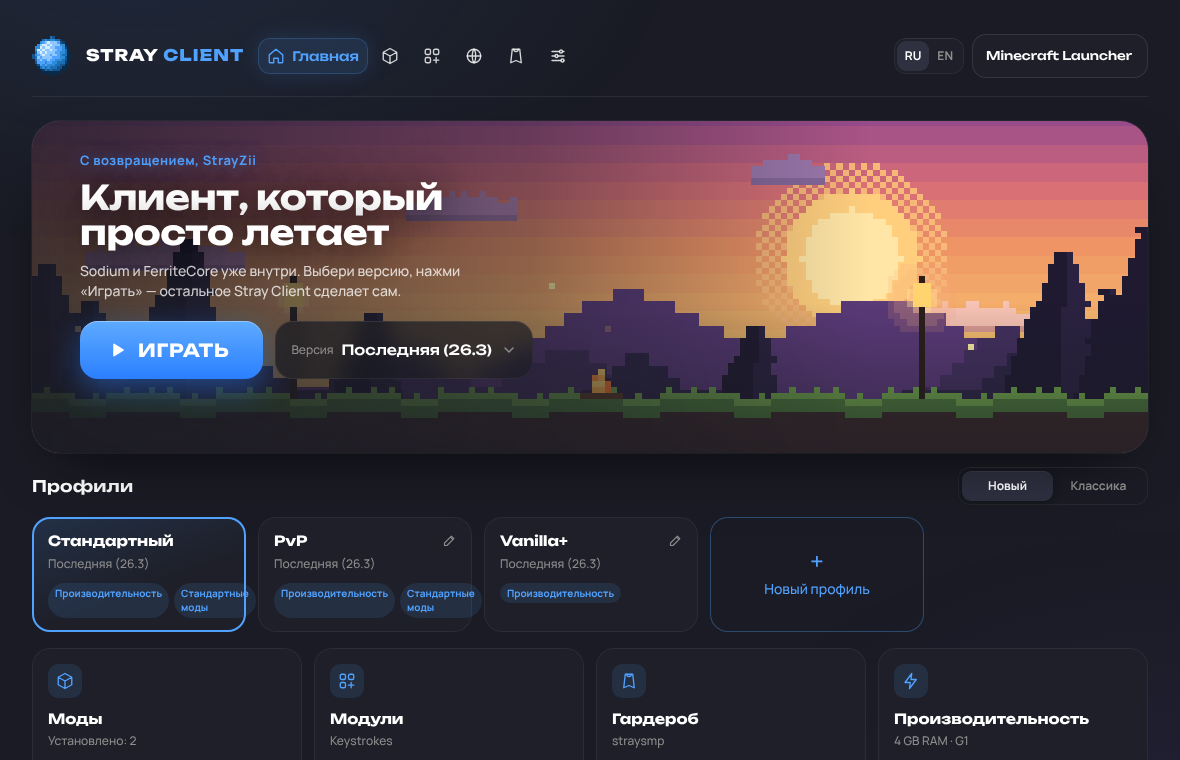
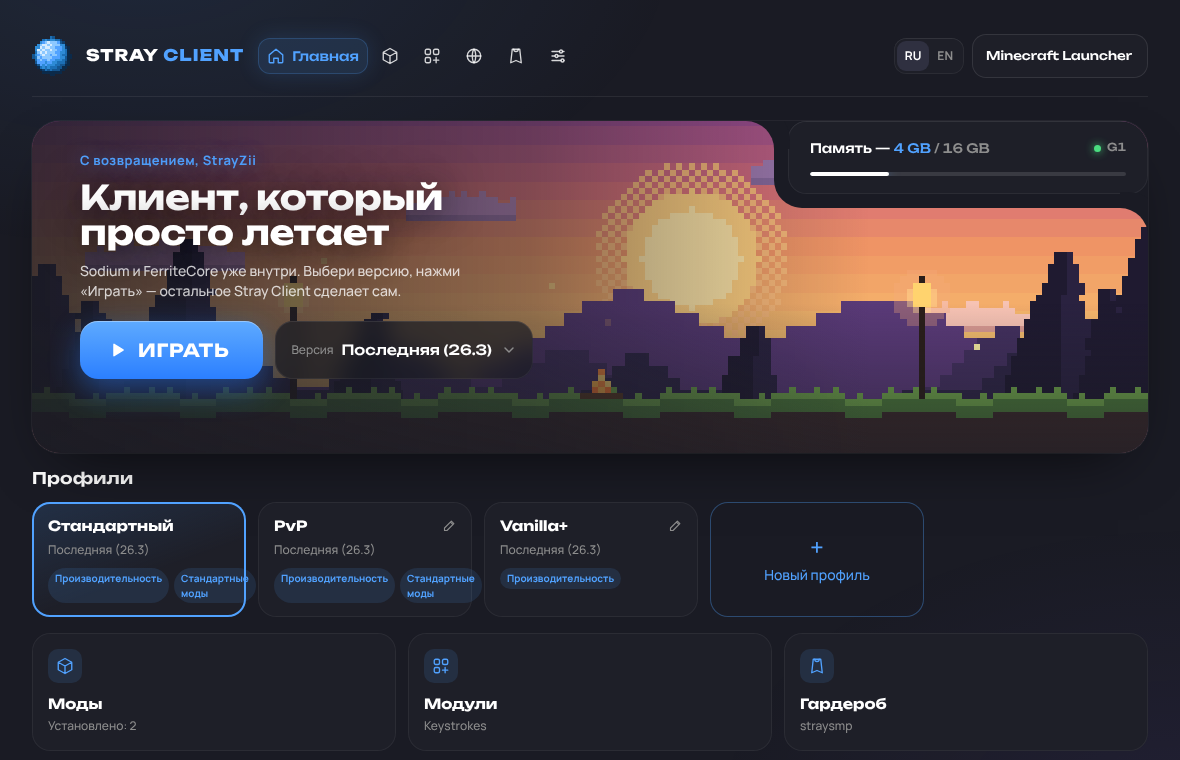
Start-up sounds; one home screen with the RAM card
- Start-up animation gets sound, synthesised with the Web Audio API (no
  audio files): a bit-crushed e-piano runs up the C major scale while
  the letters appear, a coin "ding" with an echo when the logo is
  complete, and a whoosh when the app opens. "Start-up sound" in the
  settings turns it off; a click that skips the animation cuts it.
  If the system won't start audio without a click, it stays silent
  instead of playing late.
- The New/Classic home switch is gone. The one home screen keeps the
  memory (RAM) card in the corner and the Performance and StrayZii
  cards from the classic layout below the tiles; the sun moved so the
  RAM card doesn't cover it.
- Website gallery re-shot.

Version 1.8.1.

Claude-Session: https://claude.ai/code/session_01EKR2RorTuDivRz6EMqGW66

diff --git a/ui/sfx.js b/ui/sfx.js
@@ -1,0 +1,133 @@
+// Start-up sounds, synthesised with the Web Audio API (no audio files):
+//  • a bit-crushed e-piano running up a major scale while the letters appear,
+//  • a coin "ding" with an echo when the logo is complete,
+//  • a whoosh when the app opens.
+// `StraySfx.build(ctx)` works on any (also an offline) audio context so it can be tested.
+window.StraySfx = (() => {
+  function build(ctx) {
+    const master = ctx.createGain();
+    master.gain.value = 0.42;
+    master.connect(ctx.destination);
+
+    // bit crusher: quantise the signal to a few steps (the "8-bit" grit)
+    const crush = ctx.createWaveShaper();
+    const curve = new Float32Array(2048), steps = 7;
+    for (let i = 0; i < curve.length; i++) curve[i] = Math.round(((i / (curve.length - 1)) * 2 - 1) * steps) / steps;
+    crush.curve = curve;
+    const tone = ctx.createBiquadFilter();
+    tone.type = "lowpass";
+    tone.frequency.value = 5200;
+    crush.connect(tone).connect(master);
+
+    // e-piano: a sine carrier with a decaying FM "tine" and a short bell partial
+    function piano(freq, t, len = 0.55, vol = 0.5) {
+      const car = ctx.createOscillator(), mod = ctx.createOscillator(), idx = ctx.createGain(), amp = ctx.createGain();
+      const bell = ctx.createOscillator(), bellAmp = ctx.createGain();
+      car.frequency.value = freq;
+      mod.frequency.value = freq * 2;
+      idx.gain.setValueAtTime(freq * 2.2, t);
+      idx.gain.exponentialRampToValueAtTime(freq * 0.15, t + 0.3);
+      mod.connect(idx).connect(car.frequency);
+      amp.gain.setValueAtTime(0.0001, t);
+      amp.gain.exponentialRampToValueAtTime(vol, t + 0.006);
+      amp.gain.exponentialRampToValueAtTime(0.0008, t + len);
+      bell.frequency.value = freq * 4;
+      bellAmp.gain.setValueAtTime(vol * 0.25, t);
+      bellAmp.gain.exponentialRampToValueAtTime(0.0005, t + 0.09);
+      car.connect(amp).connect(crush);
+      bell.connect(bellAmp).connect(crush);
+      for (const o of [car, mod, bell]) {
+        o.start(t);
+        o.stop(t + len + 0.05);
+      }
+    }
+    /** Eight notes up the C major scale, the last one ringing out. */
+    function scale(t, step = 0.088) {
+      const root = 523.25; // C5
+      [1, 9 / 8, 5 / 4, 4 / 3, 3 / 2, 5 / 3, 15 / 8, 2].forEach((r, i) => piano(root * r, t + i * step, i === 7 ? 0.9 : 0.42, i === 7 ? 0.55 : 0.42));
+    }
+
+    /** Classic two-tone coin with a feedback echo. */
+    function coin(t) {
+      const o = ctx.createOscillator(), g = ctx.createGain();
+      o.type = "square";
+      o.frequency.setValueAtTime(987.77, t); // B5
+      o.frequency.setValueAtTime(1318.51, t + 0.075); // E6
+      g.gain.setValueAtTime(0.0001, t);
+      g.gain.exponentialRampToValueAtTime(0.3, t + 0.004);
+      g.gain.setValueAtTime(0.3, t + 0.075);
+      g.gain.exponentialRampToValueAtTime(0.0006, t + 0.5);
+      const delay = ctx.createDelay(1), fb = ctx.createGain(), damp = ctx.createBiquadFilter();
+      delay.delayTime.value = 0.17;
+      fb.gain.value = 0.42;
+      damp.type = "lowpass";
+      damp.frequency.value = 3200;
+      o.connect(g);
+      g.connect(master);
+      g.connect(delay);
+      delay.connect(damp).connect(fb).connect(delay);
+      damp.connect(master);
+      o.start(t);
+      o.stop(t + 0.55);
+    }
+
+    /** Filtered noise sweeping up and away. */
+    function whoosh(t) {
+      const len = Math.floor(ctx.sampleRate * 0.9), buf = ctx.createBuffer(1, len, ctx.sampleRate), d = buf.getChannelData(0);
+      let seed = 1234567;
+      for (let i = 0; i < len; i++) d[i] = ((seed = (seed * 1664525 + 1013904223) >>> 0) / 2147483648) - 1;
+      const src = ctx.createBufferSource(), bp = ctx.createBiquadFilter(), g = ctx.createGain();
+      src.buffer = buf;
+      bp.type = "bandpass";
+      bp.Q.value = 0.8;
+      bp.frequency.setValueAtTime(220, t);
+      bp.frequency.exponentialRampToValueAtTime(2800, t + 0.3);
+      bp.frequency.exponentialRampToValueAtTime(500, t + 0.75);
+      g.gain.setValueAtTime(0.0001, t);
+      g.gain.exponentialRampToValueAtTime(2.0, t + 0.26);
+      g.gain.exponentialRampToValueAtTime(0.0006, t + 0.78);
+      src.connect(bp).connect(g).connect(master);
+      src.start(t);
+      src.stop(t + 0.85);
+    }
+    return { scale, coin, whoosh, master };
+  }
+
+  /** Live player: null when sound is off or the system won't start audio without a click. */
+  function start() {
+    let on = true;
+    try { on = localStorage.getItem("stray-intro-sound") !== "0"; } catch (e) {}
+    const AC = window.AudioContext || window.webkitAudioContext;
+    if (!on || !AC) return null;
+    let ctx;
+    try { ctx = new AC(); } catch (e) { return null; }
+    const s = build(ctx);
+    const t0 = performance.now();
+    let dead = false;
+    const kill = () => {
+      dead = true;
+      ctx.close().catch(() => {});
+    };
+    const ready = ctx.state === "running" ? Promise.resolve() : ctx.resume();
+    // If audio can't start right away, stay silent rather than play everything late.
+    const timer = setTimeout(() => ctx.state !== "running" && kill(), 500);
+    /** Play `what` so that it sounds `at` seconds after the animation began. */
+    const cue = (what, at) =>
+      ready.then(() => {
+        if (dead || ctx.state !== "running") return;
+        const late = (performance.now() - t0) / 1000 - at;
+        if (late < 0.25) s[what](ctx.currentTime + Math.max(0.02, -late));
+      }).catch(() => {});
+    return {
+      cue,
+      now: (what) => !dead && ctx.state === "running" && s[what](ctx.currentTime + 0.02),
+      /** Fade out what is still ringing and free the audio device. */
+      end: (after = 1.2) => {
+        clearTimeout(timer);
+        setTimeout(kill, after * 1000);
+      },
+      silence: () => !dead && s.master.gain.setTargetAtTime(0, ctx.currentTime, 0.03),
+    };
+  }
+  return { build, start };
+})();

diff --git a/ui/app.js b/ui/app.js
@@ -129,8 +129,6 @@
     $("#tile-modules").textContent = mods.join(" · ") || t("tile.modulesNone");
     $("#tile-wardrobe").textContent =
       S.settings.capeMode === "local" && S.settings.cape ? S.settings.cape.replace(/\.png$/, "") : S.settings.capeMode === "none" ? t("tile.capeNone") : t("tile.capeAccount");
-    $("#tile-perf").textContent = `${gb(S.settings.memoryMb)} RAM · ${S.settings.gc === "lowlatency" ? "ZGC" : "G1"}`;
-    $("#tile-mem-bar").style.width = $("#mem-bar").style.width;
     $(".core-mods").classList.toggle("off", !!activeProfile() && !activeProfile().performanceMods);
   }
 
@@ -146,9 +144,7 @@
   const profVersion = (p) => (p ? p.gameVersion : S.settings.gameVersion) || (S.versions[0] ? `${t("version.latest")} (${S.versions[0]})` : t("version.latest"));
   function renderHome() {
     if (!S.settings) return;
-    const layout = S.settings.homeLayout === "classic" ? "classic" : "new";
-    document.body.classList.toggle("home-new", layout === "new");
-    $$("#home-switch button, #set-home button").forEach((b) => b.classList.toggle("on", b.dataset.v === layout));
+    document.body.classList.add("home-new");
     const acc = S.accounts?.accounts?.find((a) => a.uuid === S.accounts.active) || S.init?.account;
     $("#hero-hello").textContent = acc?.name ? t("home.hello", acc.name) : t("home.helloGuest");
     const act = activeProfile();
@@ -182,13 +178,6 @@
     await saveSettings();
     await reloadInstalled();
   }
-  function setLayout(v) {
-    S.settings.homeLayout = v;
-    renderHome();
-    saveSoon();
-  }
-  $("#home-switch").addEventListener("click", (e) => e.target.closest("button") && setLayout(e.target.closest("button").dataset.v));
-  $("#set-home").addEventListener("click", (e) => e.target.closest("button") && setLayout(e.target.closest("button").dataset.v));
   document.body.appendChild($("#prof-menu"));
   $("#prof-pill").addEventListener("click", (e) => {
     e.stopPropagation();
@@ -784,14 +773,17 @@
       renderStatus();
       saveSoon();
     });
-    const checks = { "#set-autojoin": "autoJoin", "#set-close": "closeOnLaunch", "#set-motion": "reduceMotion", "#set-intro": "skipIntro" };
+    const checks = { "#set-autojoin": "autoJoin", "#set-close": "closeOnLaunch", "#set-motion": "reduceMotion", "#set-intro": "skipIntro", "#set-sound": "introSound" };
     for (const [sel, key] of Object.entries(checks)) {
       const el = $(sel);
       el.checked = !!s[key];
       el.addEventListener("change", () => {
         s[key] = el.checked;
         document.body.classList.toggle("no-motion", s.reduceMotion);
-        try { localStorage.setItem("stray-skip-intro", s.skipIntro ? "1" : "0"); } catch {}
+        try {
+          localStorage.setItem("stray-skip-intro", s.skipIntro ? "1" : "0");
+          localStorage.setItem("stray-intro-sound", s.introSound === false ? "0" : "1");
+        } catch {}
         saveSoon();
       });
     }
@@ -1516,6 +1508,10 @@
       return { done, ready() {} };
     }
     const back = "cubic-bezier(.2,1.5,.4,1)", out = "cubic-bezier(.2,.8,.2,1)", inOut = "cubic-bezier(.7,0,.3,1)";
+    // sounds: e-piano scale with the letters, coin when the logo is complete, whoosh on open
+    const sfx = window.StraySfx?.start() || null;
+    sfx?.cue("scale", 1.35);
+    sfx?.cue("coin", 2.2);
     const anims = [];
     const play = (node, frames, opts) => {
       const a = node.animate(frames, { fill: "both", easing: out, ...opts });
@@ -1580,6 +1576,8 @@
     function close() {
       if (closing) return;
       closing = true;
+      sfx?.now("whoosh");
+      sfx?.end(1.6);
       document.documentElement.classList.remove("intro-on");
       for (const n of [$(".top"), $("main")]) {
         n.animate([{ opacity: 0, transform: "translateY(16px) scale(.98)" }, { opacity: 1, transform: "none" }], { duration: 650, delay: 120, easing: out, fill: "backwards" });
@@ -1598,6 +1596,7 @@
     setTimeout(() => ((played = true), (appReady = true), maybeClose()), 9000); // never get stuck behind the intro
     el.addEventListener("click", () => {
       anims.forEach((a) => a.finish());
+      if (!closing) sfx?.silence(); // skipped: cut the music, no whoosh over it
       played = appReady = true;
       close();
     });
@@ -1613,10 +1612,13 @@
     S.settings.cape ||= "";
     S.settings.profiles ||= [];
     S.settings.profile ||= "";
-    S.settings.homeLayout ||= "new";
+    S.settings.introSound ??= true;
     S.accounts = S.init.accounts || { active: null, accounts: S.init.account ? [S.init.account] : [] };
     document.body.classList.toggle("no-motion", S.settings.reduceMotion);
-    try { localStorage.setItem("stray-skip-intro", S.settings.skipIntro ? "1" : "0"); } catch {}
+    try {
+      localStorage.setItem("stray-skip-intro", S.settings.skipIntro ? "1" : "0");
+      localStorage.setItem("stray-intro-sound", S.settings.introSound === false ? "0" : "1");
+    } catch {}
     bindSettings();
     applyI18n();
     S.versions = await api.call("game_versions").catch(() => []);

diff --git a/ui/index.html b/ui/index.html
@@ -124,11 +124,6 @@
 
       <div class="home-bar">
         <h3 class="home-new-only" data-i18n="home.profiles"></h3>
-        <span class="home-bar-gap"></span>
-        <div class="seg home-switch" id="home-switch">
-          <button data-v="new" data-i18n="home.layout.new"></button>
-          <button data-v="classic" data-i18n="home.layout.classic"></button>
-        </div>
       </div>
       <div class="prof-strip home-new-only" id="prof-strip"></div>
       <div class="tiles home-new-only">
@@ -144,14 +139,9 @@
           <span class="tile-ico"><svg viewBox="0 0 24 24"><path d="M7 3h10l2 18-7-3-7 3z"/><path d="M9 3c0 2 1.3 3 3 3s3-1 3-3"/></svg></span>
           <b data-i18n="nav.wardrobe"></b><small id="tile-wardrobe"></small>
         </button>
-        <button class="tile" data-page="settings">
-          <span class="tile-ico"><svg viewBox="0 0 24 24"><path d="M13 2 4 14h7l-1 8 9-12h-7z"/></svg></span>
-          <b data-i18n="tile.perf"></b><small id="tile-perf"></small>
-          <span class="bar tile-bar"><i id="tile-mem-bar"></i></span>
-        </button>
       </div>
 
-      <div class="cards home-classic-only">
+      <div class="cards">
         <div class="card perf">
           <div class="card-head">
             <div>
@@ -402,13 +392,7 @@
           <label class="toggle"><input type="checkbox" id="set-close" /><i></i><span data-i18n="set.close"></span></label>
           <label class="toggle"><input type="checkbox" id="set-motion" /><i></i><span data-i18n="set.motion"></span></label>
           <label class="toggle"><input type="checkbox" id="set-intro" /><i></i><span data-i18n="set.intro"></span></label>
-          <div class="field">
-            <label data-i18n="set.home"></label>
-            <div class="seg" id="set-home">
-              <button data-v="new" data-i18n="home.layout.new"></button>
-              <button data-v="classic" data-i18n="home.layout.classic"></button>
-            </div>
-          </div>
+          <label class="toggle"><input type="checkbox" id="set-sound" /><i></i><span data-i18n="set.introSound"></span></label>
         </div>
 
         <div class="card set-card">
@@ -563,6 +547,7 @@
 
   <script src="i18n.js"></script>
   <script src="api.js"></script>
+  <script src="sfx.js"></script>
   <script src="hero.js"></script>
   <script src="app.js"></script>
 </body>

diff --git a/ui/i18n.js b/ui/i18n.js
@@ -169,6 +169,7 @@ window.I18N = {
     "ce.bad": "Не удалось открыть эту картинку",
     "set.home": "Главный экран",
     "set.intro": "Без анимации при запуске",
+    "set.introSound": "Звук при запуске",
     "mod.hud": "Чтобы передвинуть модули на экране: в игре Right Shift → «Двигать HUD», затем перетащи Keystrokes и PvP-HUD мышью куда угодно.",
     "hero.title": "Клиент, который просто летает",
     "hero.sub": "Sodium и FerriteCore уже внутри. Выбери версию, нажми «Играть» — остальное Stray Client сделает сам.",
@@ -432,6 +433,7 @@ window.I18N = {
     "ce.bad": "Could not open this picture",
     "set.home": "Home screen",
     "set.intro": "Skip the start-up animation",
+    "set.introSound": "Start-up sound",
     "mod.hud": "To move modules on your screen: in game press Right Shift → “Move HUD”, then drag Keystrokes and the PvP HUD anywhere with the mouse.",
     "hero.title": "The client that just flies",
     "hero.sub": "Sodium and FerriteCore built in. Pick a version, hit Play — Stray Client takes care of the rest.",

diff --git a/ui/styles.css b/ui/styles.css
@@ -748,3 +748,9 @@ main { scroll-behavior: smooth; }
 .modal-card { box-shadow: 0 0 0 1px var(--ring-2), 0 30px 80px rgba(0,0,0,.55), 0 0 60px rgba(81,162,255,.08); }
 /* "fewer animations": no hover lifts, no cursor light */
 body.no-motion .tile::after, body.no-motion .prof-cardx::after, body.no-motion .world::after, body.no-motion .mod::after, body.no-motion .card::after, body.no-motion .cape-card::after, body.no-motion .ex-row::after { display: none; }
+
+/* ───────── one home screen (the New/Classic switch is gone) ───────── */
+body.home-new .notch-online { display: block; }
+body.home-new .tiles { grid-template-columns: repeat(3, 1fr); }
+body.home-new .cards { margin-top: 12px; }
+.home-bar { margin-top: 14px; }

diff --git a/ui/api.js b/ui/api.js
@@ -29,7 +29,7 @@
     // Like the real client until Mojang approves direct sign-in: play through the official launcher.
     playMode: "official",
     keystrokes: { enabled: true, keys: true, mouse: true, space: true, fps: true, ping: false },
-    homeLayout: params.get("home") === "classic" ? "classic" : "new", skipIntro: false, profile: "",
+    skipIntro: false, introSound: true, profile: "",
     profiles: params.has("profiles") ? [{ id: "pvp", name: "PvP", gameVersion: "", performanceMods: true, standardMods: true }, { id: "vanilla", name: "Vanilla+", gameVersion: "", performanceMods: true, standardMods: false }] : [],
   };
   // Demo cape library (the real client keeps PNGs in its data folder).

diff --git a/ui/hero.js b/ui/hero.js
@@ -65,7 +65,7 @@
       nextShoot = t + 7 + Math.random() * 9;
     }
     // sun with a dithered halo that slowly breathes
-    const cx = 138, cy = 54, r = 11, pulse = Math.sin(t * 0.9) > 0 ? 1 : 0, phase = Math.floor(t * 1.2) % 2;
+    const cx = 112, cy = 54, r = 11, pulse = Math.sin(t * 0.9) > 0 ? 1 : 0, phase = Math.floor(t * 1.2) % 2;
     for (let y = cy - r - 6; y <= cy + r + 6; y++)
       for (let x = cx - r - 6; x <= cx + r + 6; x++) {
         const d = Math.hypot(x - cx, y - cy);

diff --git a/crates/stray-core/src/settings.rs b/crates/stray-core/src/settings.rs
@@ -50,10 +50,12 @@ pub struct Settings {
     pub profiles: Vec<Profile>,
     /// Id of the active profile; empty = the default profile.
     pub profile: String,
-    /// `new` or `classic` home screen.
+    /// Unused since 1.8.1 (there is one home screen); kept so old settings files still load.
     pub home_layout: String,
     /// Skip the start-up animation.
     pub skip_intro: bool,
+    /// Sounds during the start-up animation.
+    pub intro_sound: bool,
 }
 
 /// A player-made profile with its own mods.
@@ -167,6 +169,7 @@ impl Default for Settings {
             profile: String::new(),
             home_layout: "new".into(),
             skip_intro: false,
+            intro_sound: true,
         }
     }
 }
